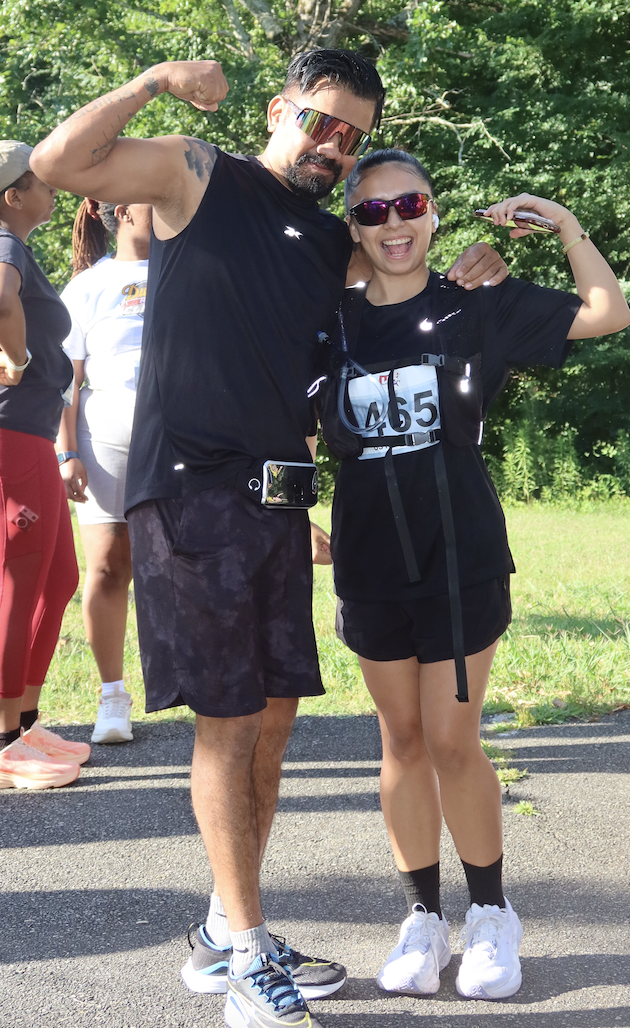
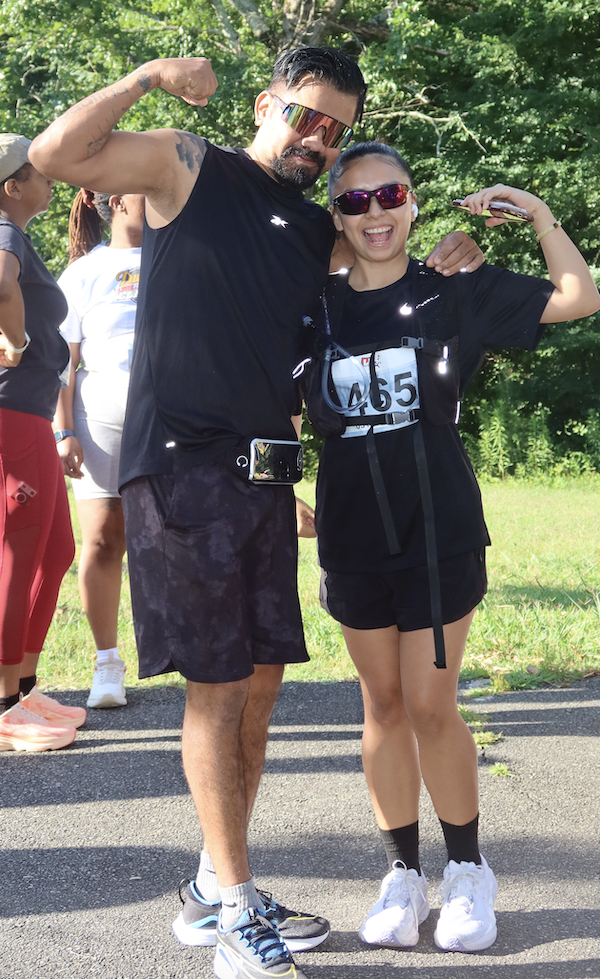
Complete WEB115 pages

Changed region(s): [[0.39, 0.4597, 0.42, 0.4903]]

diff --git a/web115/introduction.html b/web115/introduction.html
@@ -4,15 +4,15 @@
     <meta charset="UTF-8">
     <meta name="viewport" content="width=device-width, initial-scale=1.0">
     <link rel="stylesheet" type="text/css" href="styles/styles.css">
-    <title>Diana Alamilla-Ramirez | Introduction</title>
+    <title>Diana Alamilla-Ramirez's Determined Arctic Reindeer — WEB115</title>
 </head>
 <body>
     <header>
-        <h1>Diana Alamilla-Ramirez | Determined Arctic Reindeer - WEB115 - Introduction</h1>
+        <h1>Diana Alamilla-Ramirez's Determined Arctic Reindeer - WEB115</h1>
         <nav>
             <a href="index.html">Home</a> |
             <a href="introduction.html">Introduction</a> |
-            <a href="contract.html">Contract</a> |
+            <a href="contract.html">Contract</a> 
         </nav>
     </header>
 
@@ -32,9 +32,39 @@
             <li><strong>Professional Background:</strong>I’ve worked in the restaurant industry for my entire life. I've worked as a server from age 12 to 20 and then switched to hostessing ever since.</li>
             <li><strong>Academic Background:</strong>I’m currently finishing my associate degree at CPCC and plan to transfer to UNC Charlotte in the spring. I’m interested in technology, particularly data analysis and web development.</li>
             <li><strong>Primary Computer:</strong> Apple MacBook, macOS, laptop, primarily used at home and school.</li>
+            <li><strong>Courses I’m Taking, &amp; Why:</strong>
+                <ol>
+                    <li><strong>WEB 140 – Web Development Tools:</strong> I’m taking this course to learn more about the tools used to create and manage websites and to improve my web development skills.</li>
+
+                    <li><strong>WEB 115 – Web Markup and Scripting:</strong> I’m taking this course to learn how websites are structured and how markup and scripting can be used to make them more interactive.</li>
+
+                    <li><strong>CSC 152 – SAS:</strong> I’m taking this course to gain more experience working with data and using SAS for data analysis, which relates to my interest in data analytics.</li>
+                </ol>
+            </li>
+
+            <li><strong>Funny/Interesting Item to Remember Me By:</strong> I usually start my day by waking up at 4 am and going to the gym.</li>
             
 
         </ul>
+        <p><strong>Quote:</strong></p>
+
+        <p>“Success is the sum of small efforts, repeated day in and day out.”</p>
+
+        <p><em>— Robert Collier</em></p>
     </main>
+
+<footer>
+    <nav>
+        <a href="https://github.com/dalamil0" target="_blank">GitHub</a> |
+        <a href="https://www.freecodecamp.org/dalamil0" target="_blank">freeCodeCamp</a> |
+        <a href="https://www.codecademy.com/profiles/dalamil0" target="_blank">Codecademy</a> |
+        <a href="https://jsfiddle.net/u/dalamil0/fiddles/" target="_blank">JSFiddle</a> |
+        <a href="https://www.linkedin.com/in/diana-alamilla-3b8b86326/" target="_blank">LinkedIn</a>
+    </nav>
+
+    <p>Page built by Diana Alamilla-Ramirez.</p>
+</footer>
+
+<script src="https://lint.page/kit/880bd5.js" crossorigin="anonymous"></script>
 </body>
 </html>

diff --git a/web115/contract.html b/web115/contract.html
@@ -4,9 +4,57 @@
     <meta charset="UTF-8">
     <meta name="viewport" content="width=device-width, initial-scale=1.0">
     <link rel="stylesheet" type="text/css" href="styles/styles.css">
-    <title>Diana Alamilla-Ramirez | Course Contract</title>
+    <title>Diana Alamilla-Ramirez's Determined Arctic Reindeer — WEB115 — Contract</title>
 </head>
+
 <body>
-    
+    <header>
+        <h1>Diana Alamilla-Ramirez's Determined Arctic Reindeer — WEB115</h1>
+
+        <nav>
+            <a href="index.html">Home</a> |
+            <a href="introduction.html">Introduction</a> |
+            <a href="contract.html">Contract</a>
+        </nav>
+    </header>
+
+    <main>
+        <h2>Contract</h2>
+
+        <p>
+            I, <a href="introduction.html">Diana Alamilla-Ramirez</a>, agree to abide by the terms
+            in my Fall 2026 WEB115-N850 Web Markup and Scripting course with my instructor,
+            Aastha Saxena.
+        </p>
+
+        <p>
+            I understand that all work that I do on my school and personal websites will be
+            publicly available to the world. I will not put information there that is
+            inappropriate for schoolwork, or that I wish to keep private.
+        </p>
+
+        <p>
+            I also understand that it is my work that counts for attendance, not logins or
+            showing up for class. As such, failure to turn in assignments may show as absences.
+        </p>
+
+        <p>
+            <em>Signed: Diana Alamilla-Ramirez, 23 August 2026</em>
+        </p>
+    </main>
+
+    <footer>
+        <nav>
+            <a href="https://github.com/dalamil0" target="_blank">GitHub</a> |
+            <a href="https://www.freecodecamp.org/dalamil0" target="_blank">freeCodeCamp</a> |
+            <a href="https://www.codecademy.com/profiles/dalamil0" target="_blank">Codecademy</a> |
+            <a href="https://jsfiddle.net/u/dalamil0/fiddles/" target="_blank">JSFiddle</a> |
+            <a href="https://www.linkedin.com/in/diana-alamilla-3b8b86326/" target="_blank">LinkedIn</a>
+        </nav>
+
+        <p>Page built by Diana Alamilla-Ramirez.</p>
+    </footer>
+
+    <script src="https://lint.page/kit/880bd5.js" crossorigin="anonymous"></script>
 </body>
 </html>

diff --git a/web115/styles/styles.css b/web115/styles/styles.css
@@ -1,0 +1,55 @@
+body {
+    background-color: #f7f3ee;
+    color: #2f2f2f;
+    font-family: Arial, Helvetica, sans-serif;
+    max-width: 1100px;
+    margin: 0 auto;
+    padding: 20px;
+    line-height: 1.6;
+}
+
+header {
+    text-align: center;
+    margin-bottom: 30px;
+}
+
+header nav {
+    margin-top: 10px;
+}
+
+main {
+    margin-bottom: 40px;
+}
+
+footer {
+    text-align: center;
+    margin-top: 40px;
+    padding-top: 20px;
+    border-top: 1px solid #777777;
+}
+
+a {
+    color: #5a3d7a;
+}
+
+a:hover {
+    color: #7a579e;
+}
+
+figure {
+    text-align: center;
+}
+
+figcaption {
+    font-style: italic;
+    margin-top: 8px;
+}
+
+h1,
+h2 {
+    color: #3a3153;
+}
+
+li {
+    margin-bottom: 8px;
+}

diff --git a/web115/index.html b/web115/index.html
@@ -32,6 +32,15 @@
     </main>
 
     <footer>
+        <nav>
+            <a href="https://github.com/dalamil0" target="_blank">GitHub</a> |
+            <a href="https://www.freecodecamp.org/dalamil0" target="_blank">freeCodeCamp</a> |
+            <a href="https://www.codecademy.com/profiles/dalamil0" target="_blank">Codecademy</a> |
+            <a href="https://jsfiddle.net/u/dalamil0/fiddles/" target="_blank">JSFiddle</a> |
+            <a href="https://www.linkedin.com/in/diana-alamilla-3b8b86326/" target="_blank">LinkedIn</a>
+        </nav>
+
+        <p>Page built by Diana Alamilla-Ramirez.</p>
     </footer>
 
     <script src="https://lint.page/kit/880bd5.js" crossorigin="anonymous"></script>
